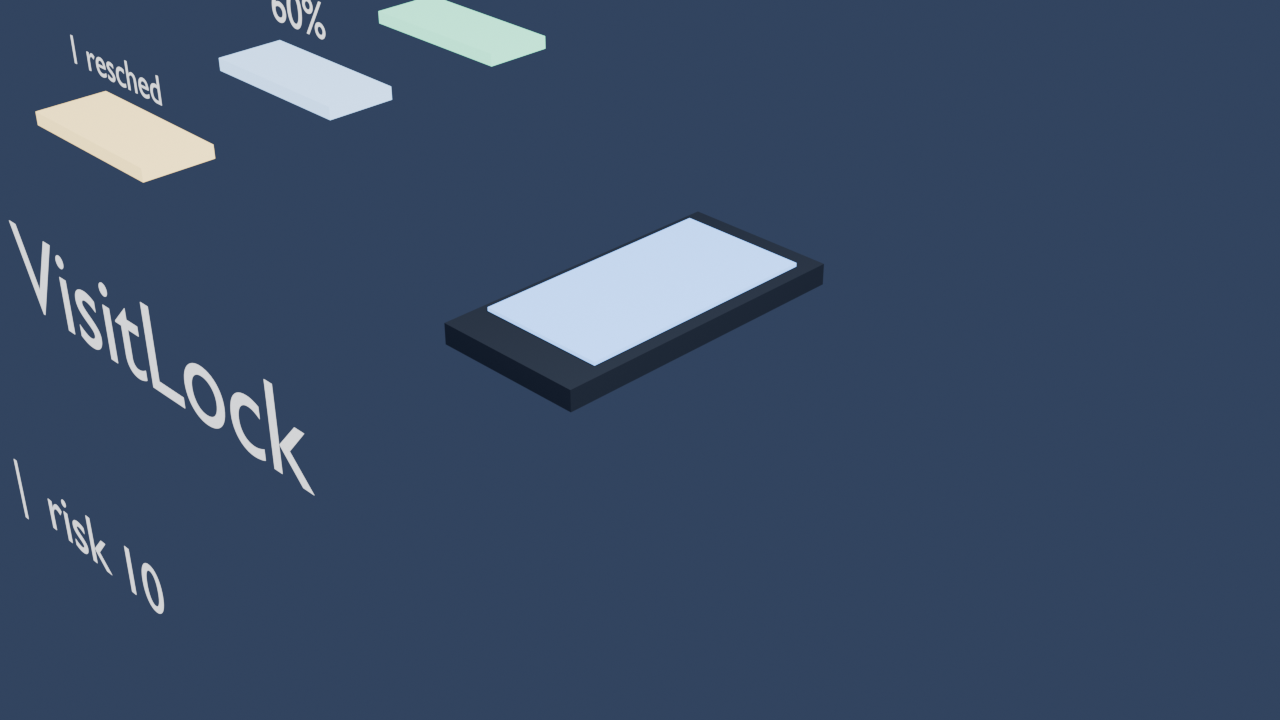
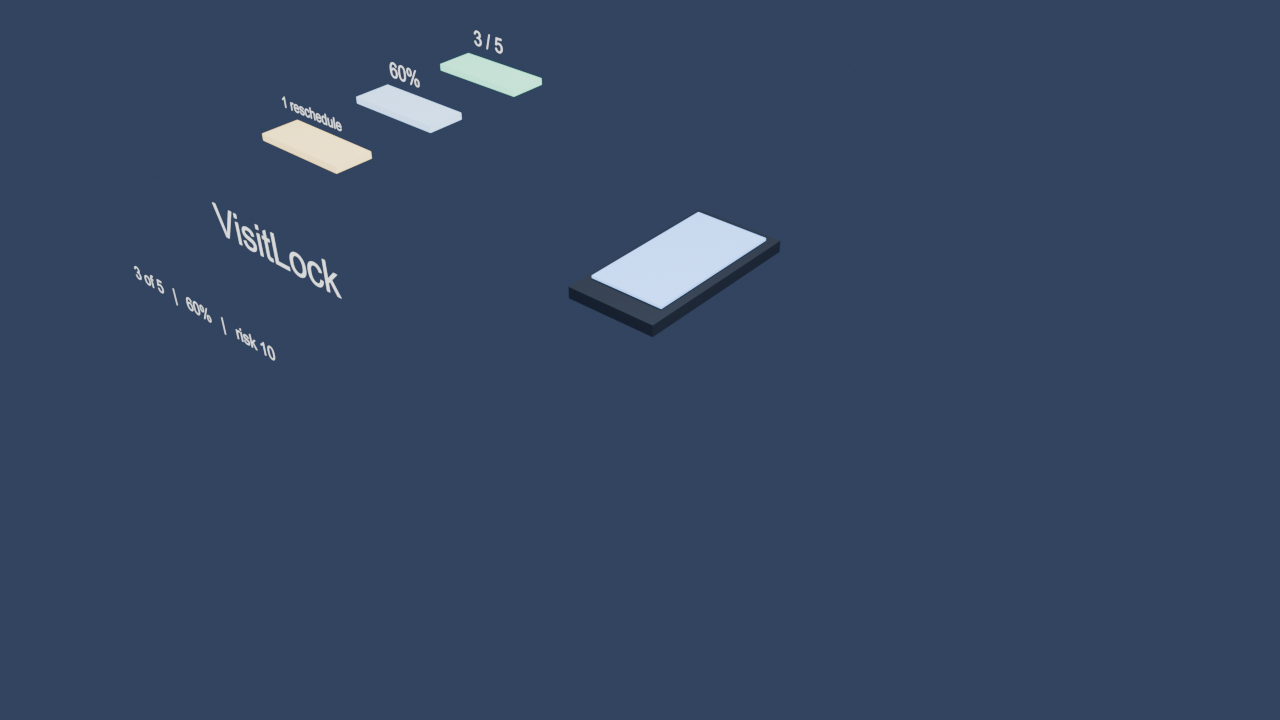
Fix VisitLock HUD still text and soften demo focus styles.
Re-render Blender twin so "1 reschedule" is readable; replace yellow demo-hl with soft blue focus for live tours.

diff --git a/docs/index.html b/docs/index.html
@@ -33,13 +33,14 @@ th { color:#9bb0d4; font-weight:600; background:#0f1728; }
 .badge.warn { background:#3a2e14; color:var(--warn); }
 .badge.bad { background:#3a1717; color:var(--bad); }
 .badge.mute { background:#1c2436; color:#9bb0d4; }
-tr.demo-hl td, .card.demo-hl, .metric.demo-hl {
-  outline: 2px solid #ffb020; outline-offset: -2px;
-  background: rgba(255,176,32,.16) !important;
-  box-shadow: inset 0 0 0 1px rgba(255,176,32,.28);
-  transition: background .2s ease, outline-color .2s ease;
+tr.demo-hl td, .card.demo-hl, .metric.demo-hl, tr.vl-focus td, .card.vl-focus {
+  outline: none;
+  background: rgba(110,168,254,.14) !important;
+  box-shadow: inset 0 0 0 1px rgba(110,168,254,.35);
+  transition: background .2s ease, box-shadow .2s ease;
 }
-tr.demo-hl td:first-child { box-shadow: inset 3px 0 0 #ffb020; }
+tr.demo-hl td:first-child, tr.vl-focus td:first-child { box-shadow: inset 3px 0 0 #6ea8fe; }
+tbody tr:hover td { background: rgba(110,168,254,.08); }
 .foot { color:#7f92b5; font-size:0.85rem; margin-top:14px; }
 @media (max-width:800px) { .grid { grid-template-columns:1fr; } }
 </style>

diff --git a/blender/render_hud_still.py b/blender/render_hud_still.py
@@ -5,12 +5,13 @@ from pathlib import Path
 
 OUT = Path(r"/Users/vitaliecervinschi/Coding Compete/projects/visitlock-calle/docs/assets/hud-still.png")
 OUT.parent.mkdir(parents=True, exist_ok=True)
+FONT = Path("/System/Library/Fonts/Supplemental/Arial.ttf")
+if not FONT.is_file():
+    FONT = Path("/System/Library/Fonts/Helvetica.ttc")
 
-# Reset
 bpy.ops.wm.read_factory_settings(use_empty=True)
 scene = bpy.context.scene
 
-# World
 world = bpy.data.worlds.new("VLWorld")
 scene.world = world
 world.use_nodes = True
@@ -18,25 +19,23 @@ bg = world.node_tree.nodes["Background"]
 bg.inputs[0].default_value = (0.04, 0.06, 0.12, 1)
 bg.inputs[1].default_value = 1.0
 
-# Phone slab
-bpy.ops.mesh.primitive_cube_add(size=1, location=(0, 0, 0.08))
+# Phone — center-right
+bpy.ops.mesh.primitive_cube_add(size=1, location=(0.7, 0.0, 0.08))
 phone = bpy.context.active_object
 phone.name = "Phone"
-phone.scale = (0.45, 0.9, 0.06)
+phone.scale = (0.40, 0.78, 0.05)
 mat_phone = bpy.data.materials.new("PhoneMat")
 mat_phone.use_nodes = True
-nt = mat_phone.node_tree
-bsdf = nt.nodes["Principled BSDF"]
+bsdf = mat_phone.node_tree.nodes["Principled BSDF"]
 bsdf.inputs["Base Color"].default_value = (0.08, 0.1, 0.14, 1)
 bsdf.inputs["Metallic"].default_value = 0.7
 bsdf.inputs["Roughness"].default_value = 0.25
 phone.data.materials.append(mat_phone)
 
-# Screen
-bpy.ops.mesh.primitive_cube_add(size=1, location=(0, 0.02, 0.12))
+bpy.ops.mesh.primitive_cube_add(size=1, location=(0.7, 0.02, 0.12))
 screen = bpy.context.active_object
 screen.name = "Screen"
-screen.scale = (0.38, 0.72, 0.01)
+screen.scale = (0.33, 0.64, 0.01)
 mat_screen = bpy.data.materials.new("ScreenMat")
 mat_screen.use_nodes = True
 sbsdf = mat_screen.node_tree.nodes["Principled BSDF"]
@@ -47,12 +46,12 @@ if "Emission Strength" in sbsdf.inputs:
     sbsdf.inputs["Emission Strength"].default_value = 3.0
 screen.data.materials.append(mat_screen)
 
-# Metric cards as glowing boxes
+
 def card(name, loc, color):
     bpy.ops.mesh.primitive_cube_add(size=1, location=loc)
     obj = bpy.context.active_object
     obj.name = name
-    obj.scale = (0.55, 0.22, 0.04)
+    obj.scale = (0.48, 0.18, 0.03)
     m = bpy.data.materials.new(name + "Mat")
     m.use_nodes = True
     b = m.node_tree.nodes["Principled BSDF"]
@@ -64,18 +63,25 @@ def card(name, loc, color):
     obj.data.materials.append(m)
     return obj
 
-card("MetricConfirmed", (-1.4, 0.6, 0.3), (0.2, 0.85, 0.55))
-card("MetricRate", (-1.4, 0.0, 0.3), (0.4, 0.65, 1.0))
-card("MetricReschedule", (-1.4, -0.6, 0.3), (1.0, 0.75, 0.3))
 
-# Text objects with fixture numbers
-def text(name, body, loc, size=0.18):
+# Metric cards — keep fully inside frame (x >= -0.9)
+card("MetricConfirmed", (-0.85, 0.55, 0.28), (0.2, 0.85, 0.55))
+card("MetricRate", (-0.85, 0.05, 0.28), (0.4, 0.65, 1.0))
+card("MetricReschedule", (-0.85, -0.45, 0.28), (1.0, 0.75, 0.3))
+
+
+def text(name, body, loc, size=0.14):
     bpy.ops.object.text_add(location=loc)
     t = bpy.context.active_object
     t.name = name
     t.data.body = body
     t.data.size = size
     t.data.align_x = "CENTER"
+    if FONT.is_file():
+        try:
+            t.data.font = bpy.data.fonts.load(str(FONT))
+        except Exception:
+            pass
     t.rotation_euler = (math.radians(90), 0, 0)
     tm = bpy.data.materials.new(name + "Mat")
     tm.use_nodes = True
@@ -84,48 +90,44 @@ def text(name, body, loc, size=0.18):
     if "Emission Color" in tb.inputs:
         tb.inputs["Emission Color"].default_value = (0.95, 0.97, 1.0, 1)
     if "Emission Strength" in tb.inputs:
-        tb.inputs["Emission Strength"].default_value = 1.5
+        tb.inputs["Emission Strength"].default_value = 1.8
     if t.data.materials:
         t.data.materials[0] = tm
     else:
         t.data.materials.append(tm)
     return t
 
-text("Title", "VisitLock", (0, -1.35, 0.4), 0.28)
-text("Tag", "3/5  |  60%  |  risk 10", (0, -1.7, 0.35), 0.14)
-text("L1", "3 / 5", (-1.4, 0.6, 0.45), 0.16)
-text("L2", "60%", (-1.4, 0.0, 0.45), 0.16)
-text("L3", "1 resched", (-1.4, -0.6, 0.45), 0.12)
 
-# Camera
-bpy.ops.object.camera_add(location=(2.8, -2.8, 2.2))
+text("Title", "VisitLock", (0.0, -1.25, 0.40), 0.22)
+text("Tag", "3 of 5   |   60%   |   risk 10", (0.0, -1.55, 0.34), 0.09)
+text("L1", "3 / 5", (-0.85, 0.55, 0.40), 0.13)
+text("L2", "60%", (-0.85, 0.05, 0.40), 0.13)
+# Full readable word — never "1 resched"
+text("L3", "1 reschedule", (-0.85, -0.45, 0.40), 0.09)
+
+# Camera pulled back so left labels stay in frame
+bpy.ops.object.camera_add(location=(3.2, -3.2, 2.5))
 cam = bpy.context.active_object
-cam.rotation_euler = (math.radians(60), 0, math.radians(45))
+cam.rotation_euler = (math.radians(55), 0, math.radians(40))
+cam.data.lens = 35
 scene.camera = cam
 
-# Light
 bpy.ops.object.light_add(type="AREA", location=(2, -1, 3))
 light = bpy.context.active_object
-light.data.energy = 250
+light.data.energy = 280
 light.data.size = 3
 
-# Render settings — Metal on Mac
 scene.render.engine = "BLENDER_EEVEE"
-# Prefer Metal via preferences when available
 prefs = bpy.context.preferences
-if hasattr(prefs, "system"):
-    sys = prefs.system
-    for attr in ("compute_device_type",):
-        if hasattr(sys, attr):
-            try:
-                setattr(sys, attr, "METAL")
-            except Exception:
-                pass
+if hasattr(prefs, "system") and hasattr(prefs.system, "compute_device_type"):
+    try:
+        prefs.system.compute_device_type = "METAL"
+    except Exception:
+        pass
 
 scene.render.resolution_x = 1280
 scene.render.resolution_y = 720
 scene.render.filepath = str(OUT)
 scene.render.image_settings.file_format = "PNG"
-
 bpy.ops.render.render(write_still=True)
 print("WROTE", OUT)
